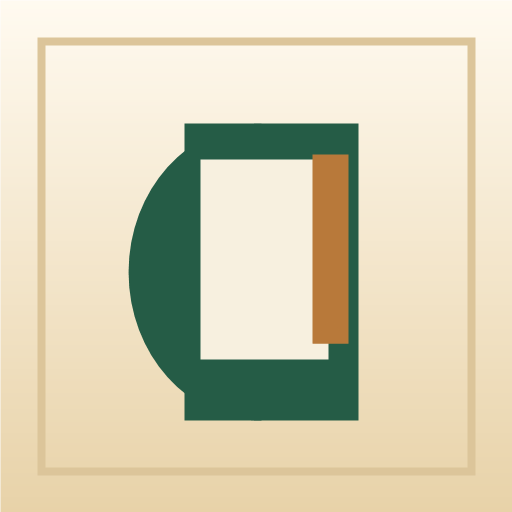
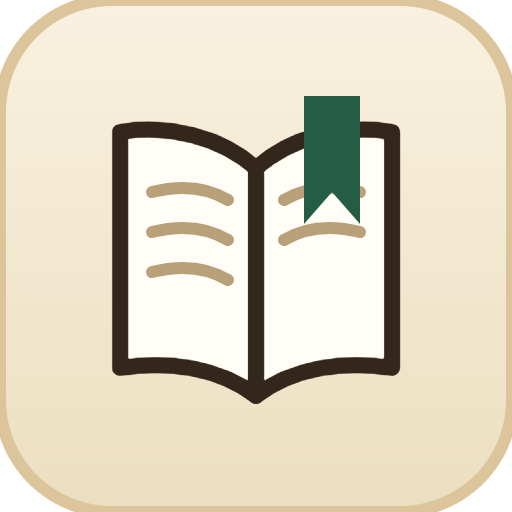
디자인 2차: 첫인상 — 책+서표 로고·샘플 체험·3단 안내 + 진단 한국어화
- 브랜드 로고 확정: 크림 스쿼클 + 펼친 책 + 딥그린 서표 리본(build/icon.svg 원본,
  상단바·드롭존 인라인 + 파비콘/PWA PNG 512·192·180 재생성 — 임시 ▣ 폐지).
- 빈 화면: 제목("봇카드 속 로어북을 꺼내 읽어보세요") + 신뢰 문구(기기 밖으로 안 나감) +
  3단 안내(리스 내보내기→놓기→읽기·번역·내보내기) + ★"샘플 로어북 구경하기"(내장 샘플
  즉시 로드 — 파일 없이 체험, web/sample-lorebook.json·sw 캐시 포함).
- 진단 문구 전면 한국어화(diagnose.js 15곳: 제목·상세 — 코드/시그니처 무변경).
- manifest·theme-color 새 배경 토큰(#f1e7cf) 동기화, sw 캐시 v2.
- 검증: npm test 30 + 빌드 + E2E(샘플 버튼→13엔트리·진단 한국어·영어 잔재 0·콘솔 0) + 캡처 육안.

diff --git a/web/src/main.ts b/web/src/main.ts
@@ -67,6 +67,15 @@ function refreshIssueMap() {
   } catch (_) {}
 }
 const tinyTok = (n: number) => (n >= 1000 ? (n / 1000).toFixed(1) + 'k' : String(n));
+// 브랜드 아이콘(build/icon.svg와 동일 도형): 크림 스쿼클 + 펼친 책 + 딥그린 서표 리본.
+const ICON = (s: number) => `<svg width="${s}" height="${s}" viewBox="0 0 128 128" xmlns="http://www.w3.org/2000/svg" aria-hidden="true">`
+  + '<defs><linearGradient id="lbg" x1="0" y1="0" x2="0" y2="1"><stop offset="0" stop-color="#f9f1e0"/><stop offset="1" stop-color="#ecdfc0"/></linearGradient></defs>'
+  + '<rect width="128" height="128" rx="28" fill="url(#lbg)" stroke="#dcc59a" stroke-width="3"/>'
+  + '<path d="M64 42 C55 34 42 31 30 33 L30 92 C42 90 55 92 64 99 Z" fill="#fffdf6" stroke="#33261a" stroke-width="4" stroke-linejoin="round"/>'
+  + '<path d="M64 42 C73 34 86 31 98 33 L98 92 C86 90 73 92 64 99 Z" fill="#fffdf6" stroke="#33261a" stroke-width="4" stroke-linejoin="round"/>'
+  + '<path d="M38 48 C46 46 52 47 57 50 M38 58 C46 56 52 57 57 60 M38 68 C46 66 52 67 57 70" stroke="#b8a078" stroke-width="3" fill="none" stroke-linecap="round"/>'
+  + '<path d="M71 50 C76 47 82 46 90 48 M71 60 C76 57 82 56 90 58" stroke="#b8a078" stroke-width="3" fill="none" stroke-linecap="round"/>'
+  + '<path d="M76 24 L90 24 L90 56 L83 48 L76 56 Z" fill="#255c46"/></svg>';
 
 let chipsEl: HTMLElement;
 let bodyEl: HTMLElement;
@@ -255,7 +264,7 @@ function render() {
   bar.className = 'topbar';
   const brand = document.createElement('div');
   brand.className = 'brand';
-  brand.innerHTML = '<span class="brand-mark">▣</span><span>로어북 추출기</span>';
+  brand.innerHTML = `<span class="brand-mark">${ICON(26)}</span><span>로어북 추출기</span>`;
   bar.appendChild(brand);
   chipsEl = document.createElement('div');
   chipsEl.className = 'chips';
@@ -315,14 +324,39 @@ function renderBody() {
   main.append(buildSummary(), buildWorkspace(), buildBottomActions());
   bodyEl.appendChild(main);
 }
+// 내장 샘플 즉시 로드 — 파일 없이도 도구를 바로 체험(첫 방문 전환용).
+async function loadSample() {
+  try {
+    const res = await fetch('sample-lorebook.json');
+    if (!res.ok) throw new Error(String(res.status));
+    const buf = await res.arrayBuffer();
+    addFiles([new File([buf], '샘플 로어북.json', { type: 'application/json' })]);
+  } catch (_) { toast('샘플을 불러오지 못했어요 — 네트워크를 확인하세요'); }
+}
 function buildEmpty() {
   const wrap = document.createElement('div');
   wrap.className = 'empty';
+  const col = document.createElement('div');
+  col.className = 'empty-col';
   const dz = document.createElement('div');
   dz.className = 'dropzone';
   dz.onclick = pickFiles;
-  dz.innerHTML = '<div class="drop-icon">▣</div><div class="drop-title">파일을 놓거나 클릭하세요</div><div class="drop-ext">.charx · .png · .json · .jpeg · .risum</div>';
-  wrap.appendChild(dz);
+  const steps = [
+    ['1', '리스에서 봇카드·모듈 내보내기'],
+    ['2', '여기에 놓거나 클릭'],
+    ['3', '읽고 · 번역하고 · 내보내기'],
+  ].map(([n, t]) => `<span class="drop-step"><b>${n}</b>${t}</span>`).join('');
+  dz.innerHTML = `<div class="drop-icon">${ICON(76)}</div>`
+    + '<div class="drop-title">봇카드 속 로어북을 꺼내 읽어보세요</div>'
+    + '<div class="drop-ext">.charx · .png · .json · .jpeg · .risum — 파일은 기기 밖으로 나가지 않아요</div>'
+    + `<div class="drop-steps">${steps}</div>`;
+  col.appendChild(dz);
+  const trial = document.createElement('div');
+  trial.className = 'empty-actions';
+  const sampleBtn = button('샘플 로어북 구경하기', loadSample, 'ghost');
+  trial.append(span('empty-hint', '처음이신가요?'), sampleBtn);
+  col.appendChild(trial);
+  wrap.appendChild(col);
   return wrap;
 }
 // 요약 = 통계(버튼처럼 안 보이게: 숫자 강조 + 라벨 흐림). 종류는 뱃지 하나만.

diff --git a/core/lorebook/diagnose.js b/core/lorebook/diagnose.js
@@ -65,13 +65,13 @@ function diagnoseDecorators(entry) {
     const parts = line.trim().split(/\s+/);
     const name = parts[0];
     if (!KNOWN_DECORATORS.has(name)) {
-      out.push(issue('warning', 'unknown_decorator', `Unknown decorator: ${name}`, entry, line));
+      out.push(issue('warning', 'unknown_decorator', `모르는 데코레이터: ${name}`, entry, line));
       continue;
     }
     if (NUMERIC_DECORATORS.has(name)) {
       const value = parts[1];
       if (value == null || Number.isNaN(Number(value))) {
-        out.push(issue('warning', 'decorator_number', `${name} needs a number`, entry, line));
+        out.push(issue('warning', 'decorator_number', `${name}에 숫자가 필요함`, entry, line));
       }
     }
   }
@@ -87,20 +87,20 @@ function diagnoseLorebook(lore, opts = {}) {
   const longLimit = Number(opts.longEntryChars || 4000);
 
   for (const e of real) {
-    const name = e.name || (e.keys && e.keys[0]) || '(unnamed)';
+    const name = e.name || (e.keys && e.keys[0]) || '(이름 없음)';
     const keys = Array.isArray(e.keys) ? e.keys.filter(Boolean) : [];
 
-    if (e.enabled === false) issues.push(issue('info', 'disabled', 'Disabled entry', e, name));
-    if (!String(e.content || '').trim()) issues.push(issue('error', 'empty_content', 'Empty content', e, 'This entry will not add prompt text.'));
-    if (e.enabled !== false && !e.constant && !keys.length) issues.push(issue('warning', 'no_keys', 'Conditional entry has no keys', e, 'It cannot activate unless edited.'));
-    if (e.selective && (!Array.isArray(e.secondaryKeys) || !e.secondaryKeys.length)) issues.push(issue('warning', 'selective_without_secondary', 'Selective entry has no secondary keys', e, 'Primary key can match, but the second condition is missing.'));
-    if (e.folder && !refs.has(String(e.folder))) issues.push(issue('warning', 'orphan_folder', 'Folder reference was not found', e, String(e.folder)));
-    if (String(e.content || '').length > longLimit) issues.push(issue('info', 'long_entry', 'Long entry', e, `${String(e.content || '').length} chars, about ${estimateEntryTokens(e)} tokens.`));
+    if (e.enabled === false) issues.push(issue('info', 'disabled', '비활성 엔트리', e, name));
+    if (!String(e.content || '').trim()) issues.push(issue('error', 'empty_content', '본문이 비어 있음', e, '프롬프트에 아무것도 더하지 않는 엔트리예요.'));
+    if (e.enabled !== false && !e.constant && !keys.length) issues.push(issue('warning', 'no_keys', '조건부인데 발동 키워드가 없음', e, '수정하지 않으면 발동할 수 없어요.'));
+    if (e.selective && (!Array.isArray(e.secondaryKeys) || !e.secondaryKeys.length)) issues.push(issue('warning', 'selective_without_secondary', '2차 키 조건인데 2차 키워드가 없음', e, '1차 키가 맞아도 두 번째 조건이 비어 있어요.'));
+    if (e.folder && !refs.has(String(e.folder))) issues.push(issue('warning', 'orphan_folder', '폴더 참조를 찾지 못함', e, String(e.folder)));
+    if (String(e.content || '').length > longLimit) issues.push(issue('info', 'long_entry', '긴 엔트리', e, `${String(e.content || '').length}자 · 약 ${estimateEntryTokens(e)} 토큰.`));
 
     if (e.useRegex) {
       for (const key of keys) {
         try { new RegExp(key); }
-        catch (err) { issues.push(issue('error', 'invalid_regex', 'Invalid regex key', e, `${key}: ${err.message || err}`)); }
+        catch (err) { issues.push(issue('error', 'invalid_regex', '잘못된 정규식 키워드', e, `${key}: ${err.message || err}`)); }
       }
     }
 
@@ -109,7 +109,7 @@ function diagnoseLorebook(lore, opts = {}) {
       if (!norm) continue;
       if (!keyMap.has(norm)) keyMap.set(norm, []);
       keyMap.get(norm).push(e);
-      if (!e.useRegex && norm.length <= 1) issues.push(issue('warning', 'short_key', 'Very short key', e, key));
+      if (!e.useRegex && norm.length <= 1) issues.push(issue('warning', 'short_key', '너무 짧은 키워드', e, key));
     }
 
     issues.push(...diagnoseDecorators(e));
@@ -117,21 +117,21 @@ function diagnoseLorebook(lore, opts = {}) {
 
   for (const [key, owners] of keyMap.entries()) {
     if (owners.length > 1) {
-      for (const e of owners) issues.push(issue('warning', 'duplicate_key', `Duplicate key: ${key}`, e, `${owners.length} entries share this key.`));
+      for (const e of owners) issues.push(issue('warning', 'duplicate_key', `중복 키워드: ${key}`, e, `${owners.length}개 엔트리가 같은 키워드를 써요.`));
     }
   }
 
   const constantCount = real.filter((e) => e.enabled !== false && e.constant).length;
   if (real.length && constantCount >= Math.max(5, Math.ceil(real.length * 0.35))) {
-    issues.push(issue('warning', 'many_constant', 'Many always-active entries', null, `${constantCount}/${real.length} entries are always active.`));
+    issues.push(issue('warning', 'many_constant', '상시활성 엔트리가 많음', null, `${real.length}개 중 ${constantCount}개가 항상 포함돼요.`));
   }
 
   const tokenStats = estimateLorebookTokens(entries);
   const budget = Number(opts.tokenBudget != null ? opts.tokenBudget : lore && lore.tokenBudget);
   if (budget > 0 && tokenStats.constant > budget) {
-    issues.push(issue('error', 'constant_over_budget', 'Always-active entries exceed token budget', null, `${tokenStats.constant}/${budget} estimated tokens.`));
+    issues.push(issue('error', 'constant_over_budget', '상시활성만으로 토큰 예산 초과', null, `추정 ${tokenStats.constant} / 예산 ${budget} 토큰.`));
   } else if (budget > 0 && tokenStats.total > budget) {
-    issues.push(issue('info', 'total_over_budget', 'Full lorebook exceeds token budget', null, `${tokenStats.total}/${budget} estimated tokens.`));
+    issues.push(issue('info', 'total_over_budget', '로어북 전체가 토큰 예산 초과', null, `추정 ${tokenStats.total} / 예산 ${budget} 토큰.`));
   }
 
   const rank = { error: 0, warning: 1, info: 2 };

diff --git a/web/style.css b/web/style.css
@@ -85,15 +85,8 @@ input:focus, select:focus, textarea:focus { border-color: var(--accent2); }
   flex: 0 0 auto;
 }
 .brand { display: inline-flex; align-items: center; gap: 8px; font-weight: 800; white-space: nowrap; }
-.brand-mark {
-  width: 24px;
-  height: 24px;
-  border-radius: 7px;
-  display: inline-grid;
-  place-items: center;
-  background: var(--accent);
-  color: var(--accent-ink);
-}
+.brand-mark { display: inline-grid; place-items: center; }
+.brand-mark svg { display: block; border-radius: 6px; }
 .chips { display: flex; gap: 6px; overflow-x: auto; flex: 1 1 auto; min-width: 0; }
 .chip {
   display: inline-flex;
@@ -127,10 +120,23 @@ input:focus, select:focus, textarea:focus { border-color: var(--accent2); }
   cursor: pointer;
   box-shadow: 0 12px 34px var(--shadow);
 }
-.dropzone:hover, body.dragging .dropzone { border-color: var(--accent2); background: var(--panel3); }
-.drop-icon { font-size: 42px; line-height: 1; margin-bottom: 12px; color: var(--accent); }
-.drop-title { color: var(--text); font-size: 18px; font-weight: 800; margin-bottom: 6px; }
+.dropzone:hover, body.dragging .dropzone { border-color: var(--accent); background: var(--panel3); }
+.empty-col { display: flex; flex-direction: column; align-items: center; gap: 14px; width: min(640px, 92vw); }
+.empty-col .dropzone { width: 100%; }
+.drop-icon { margin-bottom: 14px; }
+.drop-icon svg { display: inline-block; border-radius: 17px; box-shadow: 0 6px 22px var(--shadow); }
+.drop-title { color: var(--text); font-size: 19px; font-weight: 800; margin-bottom: 6px; letter-spacing: -.01em; }
 .drop-ext { font-size: 13px; }
+.drop-steps { display: flex; justify-content: center; gap: 14px; flex-wrap: wrap; margin-top: 20px; }
+.drop-step { display: inline-flex; align-items: center; gap: 7px; color: var(--dim); font-size: 12.5px; white-space: nowrap; }
+.drop-step b {
+  width: 19px; height: 19px; flex: 0 0 auto;
+  display: inline-grid; place-items: center;
+  border-radius: 99px; background: var(--accent); color: var(--accent-ink);
+  font-size: 11px; font-weight: 800;
+}
+.empty-actions { display: flex; align-items: center; gap: 10px; }
+.empty-hint { color: var(--dim); font-size: 13px; }
 
 .main {
   flex: 1 1 auto;

diff --git a/web/sw.js b/web/sw.js
@@ -2,8 +2,8 @@
 // Static offline cache for the web-only Lorebook Extractor.
 'use strict';
 
-const CACHE = 'lorebook-static-v1';
-const ASSETS = ['./', 'style.css', 'dist/main.js', 'manifest.webmanifest', 'icon-192.png', 'icon-512.png', 'apple-touch-icon.png'];
+const CACHE = 'lorebook-static-v2';
+const ASSETS = ['./', 'style.css', 'dist/main.js', 'manifest.webmanifest', 'icon-192.png', 'icon-512.png', 'apple-touch-icon.png', 'sample-lorebook.json'];
 
 self.addEventListener('install', (e) => {
   e.waitUntil(caches.open(CACHE).then((c) => c.addAll(ASSETS)).then(() => self.skipWaiting()));

diff --git a/web/index.html b/web/index.html
@@ -7,7 +7,7 @@
   <meta name="color-scheme" content="light dark">
   <meta http-equiv="Content-Security-Policy" content="default-src 'self'; connect-src 'self' https: http://localhost:* http://127.0.0.1:*; img-src 'self' data: blob:; style-src 'self'">
   <title>로어북 추출기</title>
-  <meta name="theme-color" content="#f7f0df">
+  <meta name="theme-color" content="#f1e7cf">
   <meta name="apple-mobile-web-app-capable" content="yes">
   <meta name="apple-mobile-web-app-status-bar-style" content="default">
   <meta name="apple-mobile-web-app-title" content="로어북 추출기">